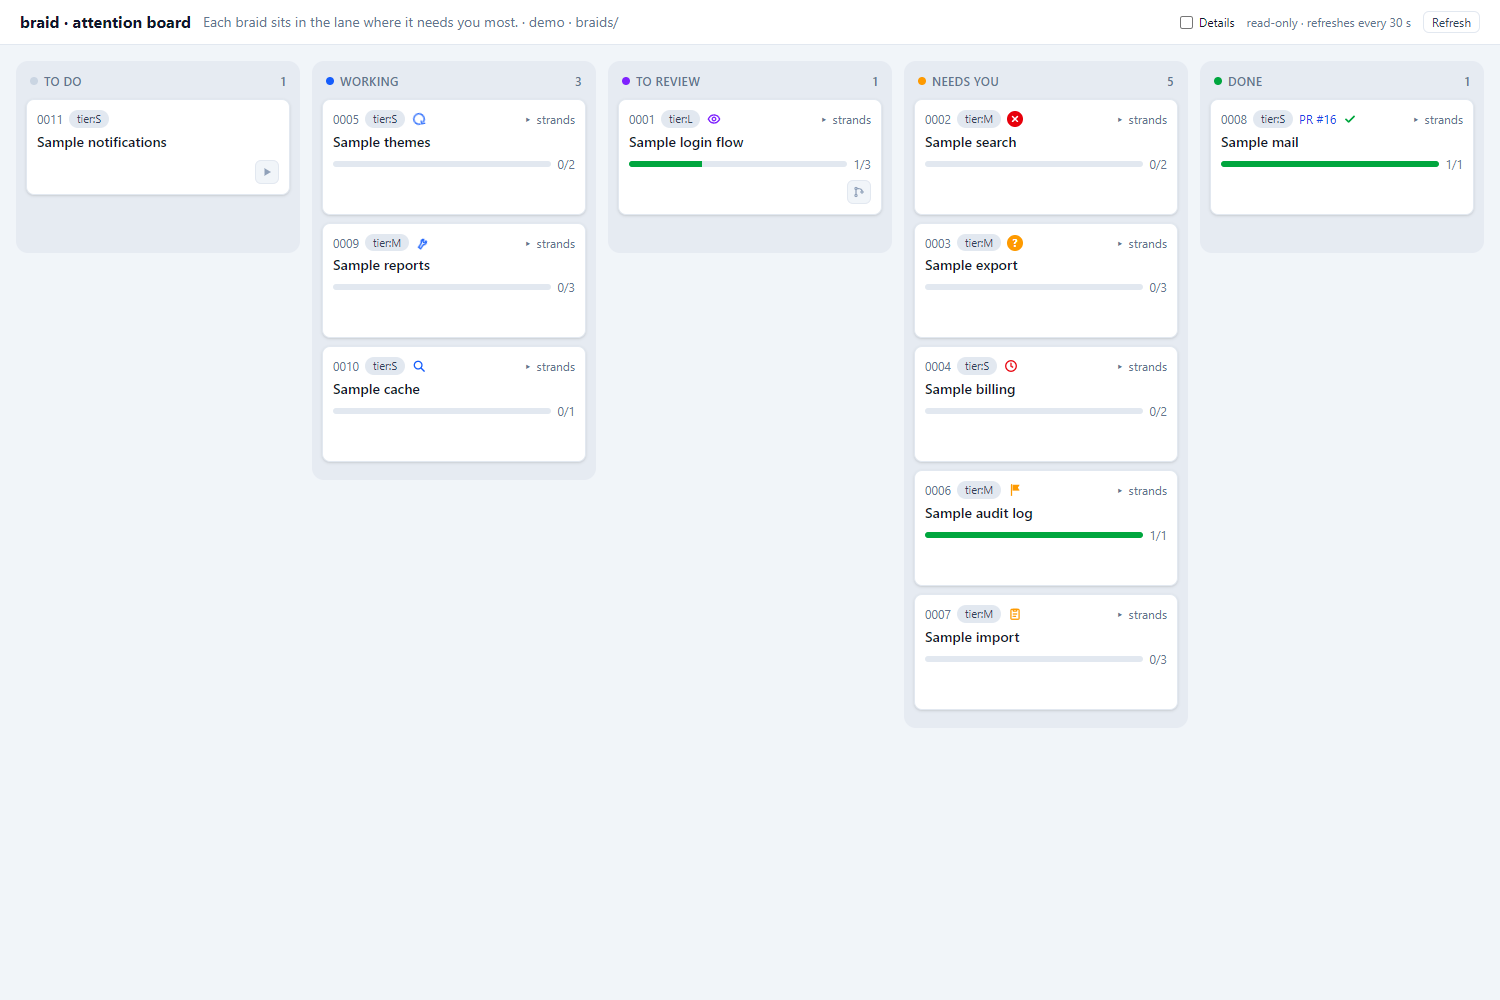
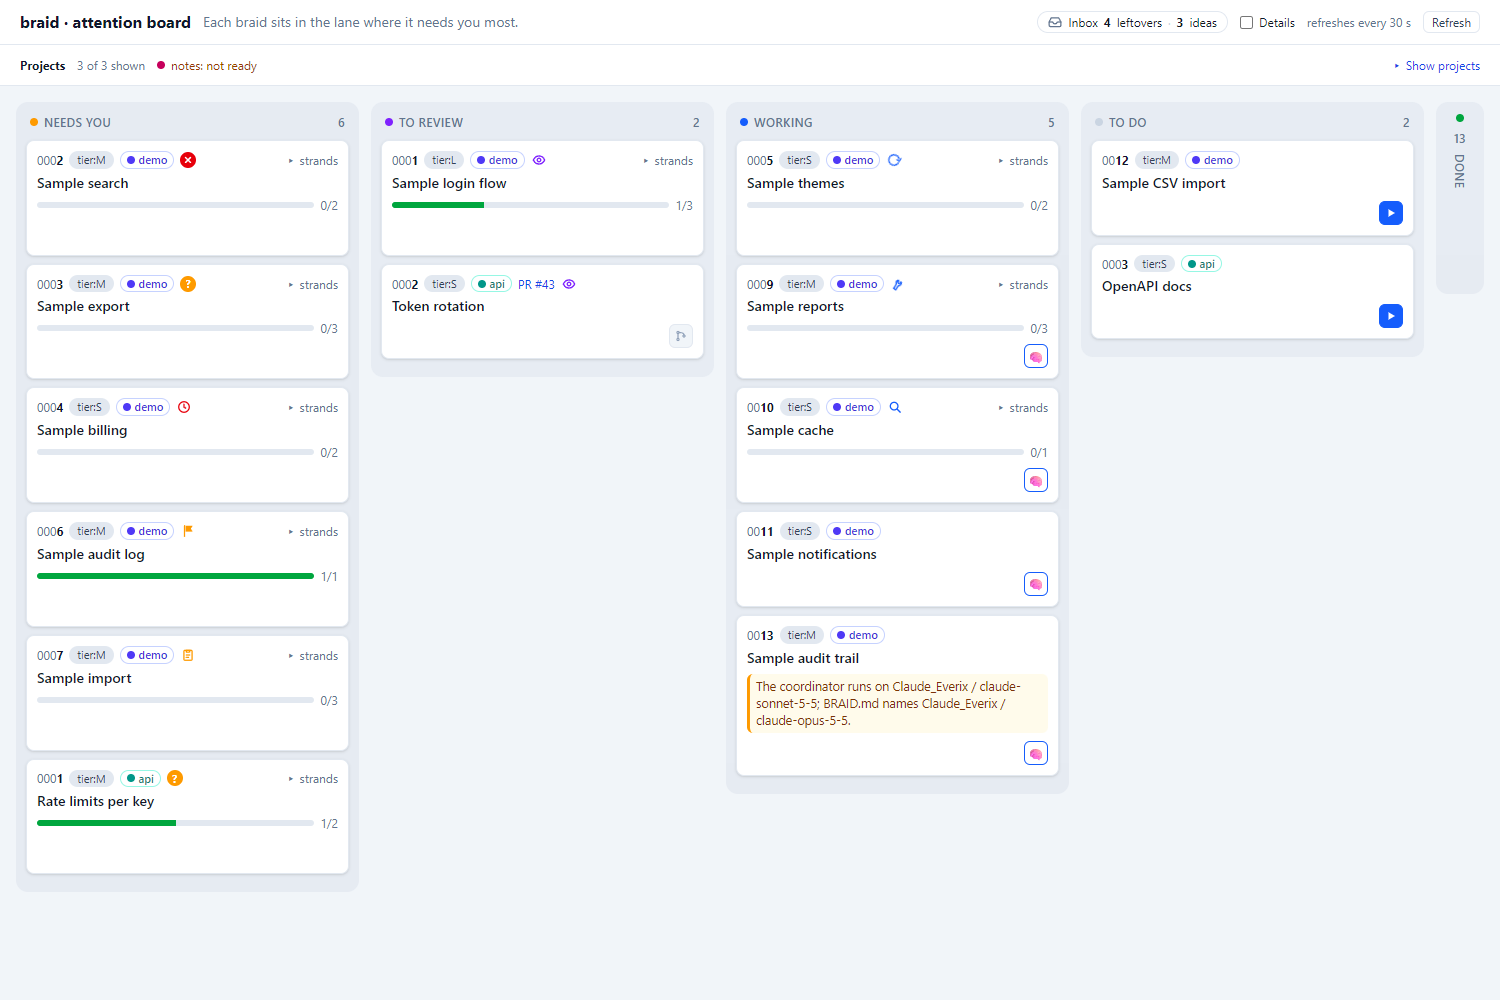
feat(board): collapsed Done lane is a narrow strip; Done rows wrap at narrow widths

diff --git a/web/src/App.tsx b/web/src/App.tsx
@@ -892,25 +892,29 @@ const dayOf = (iso: string | null): string => (iso === null ? "" : new Date(iso)
  * The Done lane: collapsed by default; opened, the 10 newest braids as rows, newest first by the day they became
  * Done, and Show more for the next 10.
  */
-function DoneLane({ cards }: { cards: readonly TaggedCard[] }) {
+function DoneLane({ cards, open, setOpen }: { cards: readonly TaggedCard[]; open: boolean; setOpen: (open: boolean) => void }) {
   const tagged = useContext(ScopeContext).tagged;
-  const [open, setOpen] = useState(false);
   const [shown, setShown] = useState(DONE_PAGE);
   const rows = doneNewestFirst(cards);
   return (
     <div>
-      <button type="button" aria-expanded={open} onClick={() => setOpen(!open)} className="flex min-h-6 w-full cursor-pointer items-center gap-1 rounded-md px-1 text-left text-xs font-semibold tracking-wide text-slate-500 uppercase max-md:min-h-11">
+      <button type="button" aria-expanded={open} onClick={() => setOpen(!open)} className="flex min-h-6 w-full cursor-pointer items-center gap-1 rounded-md px-1 text-left text-xs font-semibold tracking-wide text-slate-500 uppercase max-md:min-h-11 md:hidden">
         <span aria-hidden>{open ? "▾" : "▸"}</span> {open ? "Hide" : "Show"} done
       </button>
       {open && (
+        <button type="button" aria-expanded onClick={() => setOpen(false)} className="mb-1 flex min-h-6 w-full cursor-pointer items-center gap-1 rounded-md px-1 text-left text-xs font-semibold tracking-wide text-slate-500 uppercase max-md:hidden">
+          <span aria-hidden>▾</span> Hide done
+        </button>
+      )}
+      {open && (
         <div>
           {rows.slice(0, shown).map((b) => (
-            <button key={`${b.project}/${b.id}`} type="button" data-opens-details onClick={() => go(b.id, "brief", b.project)} className="flex w-full cursor-pointer items-center gap-2 border-b border-slate-300/60 px-1 py-1.5 text-left text-[13px] hover:underline max-md:min-h-11">
+            <button key={`${b.project}/${b.id}`} type="button" data-opens-details onClick={() => go(b.id, "brief", b.project)} className="flex w-full cursor-pointer flex-wrap items-center gap-x-2 gap-y-0.5 border-b border-slate-300/60 px-1 py-1.5 text-left text-[13px] hover:underline max-md:min-h-11">
               <LaneDot lane="Done" />
               <span className="w-10 flex-none text-xs text-slate-500"><Id id={b.id} /></span>
               {tagged && <ProjectTag name={b.project} />}
-              <span className="min-w-0 flex-1">{b.title}</span>
-              <span className="flex-none text-[11px] whitespace-nowrap text-slate-500">{dayOf(b.doneAt)}</span>
+              <span className="min-w-24 flex-1">{b.title}</span>
+              <span className="ml-auto flex-none text-[11px] whitespace-nowrap text-slate-500">{dayOf(b.doneAt)}</span>
             </button>
           ))}
           {rows.length > shown && (
@@ -930,6 +934,8 @@ function DoneLane({ cards }: { cards: readonly TaggedCard[] }) {
  */
 function Board({ data, details }: { data: { readonly lanes: readonly Lane[]; readonly braids: readonly TaggedCard[] }; details: boolean }) {
   const [active, setActive] = useState<Lane>(data.lanes[0] ?? "Waiting");
+  const [doneOpen, setDoneOpen] = useState(false);
+  const stripped = !doneOpen && data.lanes.includes("Done");
   const touch = useRef<{ x: number; y: number } | null>(null);
   const move = (by: number) => {
     const next = data.lanes[data.lanes.indexOf(active) + by];
@@ -955,7 +961,7 @@ function Board({ data, details }: { data: { readonly lanes: readonly Lane[]; rea
         ))}
       </div>
       <div
-        className="grid grid-cols-5 items-start gap-3 p-4 max-md:grid-cols-1 max-md:px-3.5"
+        className={`grid items-start gap-3 p-4 max-md:grid-cols-1 max-md:px-3.5 ${stripped ? "grid-cols-[repeat(4,minmax(0,1fr))_3rem]" : "grid-cols-5"}`}
         onTouchStart={(e) => {
           const t = e.touches[0];
           // A touch that starts at a screen edge is the browser's back or forward gesture, not a swipe.
@@ -972,13 +978,25 @@ function Board({ data, details }: { data: { readonly lanes: readonly Lane[]; rea
       >
         {data.lanes.map((lane) => {
           const cards = data.braids.filter((b) => b.lane === lane);
+          if (lane === "Done" && stripped) {
+            return (
+              <section key={lane} aria-label={LANE_LABEL[lane]} className={lane === active ? "" : "max-md:hidden"}>
+                <button type="button" aria-expanded={false} onClick={() => setDoneOpen(true)} className="flex min-h-48 w-full cursor-pointer flex-col items-center gap-2 rounded-xl bg-slate-200/70 py-3 text-xs font-semibold uppercase tracking-wide text-slate-500 hover:bg-slate-300/70 max-md:hidden">
+                  <LaneDot lane={lane} />
+                  <span>{cards.length}</span>
+                  <span className="[writing-mode:vertical-rl]">{LANE_LABEL[lane]}</span>
+                </button>
+                <div className="md:hidden"><DoneLane cards={cards} open={false} setOpen={setDoneOpen} /></div>
+              </section>
+            );
+          }
           return (
             <section key={lane} aria-label={LANE_LABEL[lane]} className={`min-h-48 rounded-xl bg-slate-200/70 p-2.5 ${lane === active ? "" : "max-md:hidden"}`}>
               <h3 className="mx-1 mb-2.5 mt-0.5 flex justify-between text-xs font-semibold uppercase tracking-wide text-slate-500 max-md:hidden">
                 <span className="flex items-center gap-1.5"><LaneDot lane={lane} />{LANE_LABEL[lane]}</span>
                 <span>{cards.length}</span>
               </h3>
-              {lane === "Done" ? <DoneLane cards={cards} /> : cards.map((b) => <Card key={`${b.project}/${b.id}`} braid={b} details={details} />)}
+              {lane === "Done" ? <DoneLane cards={cards} open={doneOpen} setOpen={setDoneOpen} /> : cards.map((b) => <Card key={`${b.project}/${b.id}`} braid={b} details={details} />)}
             </section>
           );
         })}

diff --git a/docs/decisions.md b/docs/decisions.md
@@ -72,6 +72,7 @@ Updated: 2026-11-20. User requirements take precedence over implementation propo
 | D77 | The worker alone waits on an item PR's CI, and the coordinator waits only where a wake can't be lost: the worker's report for item PRs (the coordinator sets no PR watch on them), a PR watch only while no worker waits on the PR (the planning PR, the final PR, and a story's PR from the coordinator's `braid accept` commit on it, kept until the new head is green and the handover), a foreground `braid wait <number> --timeout <under 10>` for the braid branch's CI after a merge (called again on exit 3), and a `delegate_task` result for reviewers. The coordinator runs no background command and says "waiting" only with one of those running; after a wake or resume it checks the state first, runs nothing in parallel with `t3_thread_wait`, reads a "STOP" result during a wait as an incoming message, and re-checks after "session ended". This replaces D71's background wait. | A background `braid wait` plus `t3_background_wait` raced T3's query close and killed the coordinator session, and 0044's wait was interrupted the same way; a coordinator watch on an item PR duplicated the worker's own and woke the coordinator for failures that were the worker's. (0048, idea 2026-11-20-80k2.) |
 | D78 | One `braid board` serves every project in the per-machine list `~/.braid/projects.json` (or the one `--project` names): one port, one token, one Tailscale listener. Each project keeps its own snapshot cycle, watcher, notifier and `.braid/notified.json`; its whole read has a 60 s timeout, and a failed or late read keeps the last good snapshot, marked with its age and failure, and sends no pushes. `/api/all` is one combined board of all projects (or of `?projects=a,b`), each card tagged with its project, the lanes derived per project as before; `/api/board?project=` answers for one. Actions name a served project; a folder path from the client is never accepted. The security checks (owner-only whois, token, Host, Origin, `x-braid-request`) are unchanged, and the local listener now checks Host on every request, reads included: only `127.0.0.1:<port>` or `localhost:<port>` (a DNS-rebinding page reads nothing). The user accepted that one token and one Tailscale address reach every listed project (2026-11-20). With no list, the board serves the folder it runs in, as before. Supersedes D40's "one project for now". Numbered D78 because `main` already has D76 and D77. Details in [the board](board.md#several-projects). | The user works on several projects at once and had a board per repository, each on its own port, token, tab and Tailscale address, and pushes only from a board that happened to run (spike 0045, option 3, chosen by the user on 2026-11-20). One process for all keeps one bookmark and one place for pushes; per-project state stays in each repository, so coordinators and workers are unchanged. The per-project timeout and the last good snapshot keep one slow or broken project from holding up the rest. |
 | D79 | The board page is one combined board with a project filter, not a page per project. The filter is `?projects=a,b` in the address; the Projects block is one summary line by default (it always names a failed read and a project that isn't ready) and opens to one line per project with its counts, readiness and board age; cards, Done rows and inbox entries carry a project tag when two or more projects are shown; an item is at `#/p/<project>/<id>`, and the old `#/<id>` means the first project shown. With one project served the page is as before. A failed read shows as a dashed card edge and ⚠, the project line and a note in the panel. Details in [the board](board.md#several-projects). | The user chose option 3 of spike 0045 and approved the mockups on 2026-11-20 with one change: the selector is collapsed by default, so the lanes stay the first thing on the page. The summary keeps trouble visible. A bookmark or phone link has to open the same view, so the filter lives in the address; the open or closed state of the block is a preference, kept in the browser. |
+| D80 | On the desktop board a collapsed Done lane is a narrow strip (dot, count, "Done") at the right edge and the other four lanes take the freed width; opened it is a full fifth as before. The open state lives in `Board`, not remembered across loads. The phone keeps its tabs. Open Done rows wrap the title and drop the day under it when the column is narrow. | The collapsed lane kept a fifth of the width to show a count and "Show done", while Done is rarely opened and the other lanes need the room. At 900 px the open lane's day overlapped the title. (0055.) |
 
 D12, D13, D14, D17 and D19–D25 (Agile vocabulary, report formats, review naming, assignment packets, delivery and record-ownership rules) and D27 (workspace-binding helper) were process decisions superseded by D28 and D29. Their IDs are not reused.
 

diff --git a/docs/board.md b/docs/board.md
@@ -16,7 +16,7 @@ The lanes say what a braid asks of you, not the braid's own status. An item is o
 | To Do | `To Do` | not started; `Outline` items show here with a badge | none | light grey |
 | Done | `Done` | merged | none | green |
 
-The lanes stand in this order left to right (`LANES` in `src/board/model.ts`, the same order as the urgency above), on the phone as well. **Done is collapsed**: the lane shows only its count and "Show done". Opened, it lists braids as rows (number, title, the day it became Done), **newest first**, the 10 newest, and "Show more (n)" adds 10 more. "Became Done" is the date of the newest commit that set `status: Done` in the item's brief, read from Git (the brief's history, `git log --follow`, from the commit the brief was read from, else HEAD: the oldest commit of the unbroken run of versions that say `status: Done`; `src/board/done.ts`), so a renamed folder keeps its date, so it needs no GitHub and covers items Done without a PR; it is the commit's committer date, and a result, a miss included, is kept per commit searched for the life of the board process, so an item without a date doesn't run `git log` on every refresh. A braid with strands takes its own Done commit; when its own brief never says Done (its strands did the work), its newest strand's. A Done braid whose date Git doesn't give sorts after the dated ones, highest number first. `doneNewestFirst` and `DONE_PAGE` in `src/board/model.ts` do the ordering and the page size.
+The lanes stand in this order left to right (`LANES` in `src/board/model.ts`, the same order as the urgency above), on the phone as well. **Done is collapsed**: from `md` up the lane is a narrow strip at the right edge (its dot, the count and "Done" set vertically) and the other four lanes share the freed width; the whole strip is the button that opens it (`aria-expanded`), and the open state is not remembered across page loads. On the phone the Done tab shows the "Show done" button as before. Opened, the lane is a full column (five equal columns) with "Hide done" at the top, which collapses it to the strip again; it lists braids as rows (number, title, the day it became Done), **newest first**, the 10 newest, and "Show more (n)" adds 10 more. In a narrow column a row's title wraps and its day drops under it, so the two never overlap. "Became Done" is the date of the newest commit that set `status: Done` in the item's brief, read from Git (the brief's history, `git log --follow`, from the commit the brief was read from, else HEAD: the oldest commit of the unbroken run of versions that say `status: Done`; `src/board/done.ts`), so a renamed folder keeps its date, so it needs no GitHub and covers items Done without a PR; it is the commit's committer date, and a result, a miss included, is kept per commit searched for the life of the board process, so an item without a date doesn't run `git log` on every refresh. A braid with strands takes its own Done commit; when its own brief never says Done (its strands did the work), its newest strand's. A Done braid whose date Git doesn't give sorts after the dated ones, highest number first. `doneNewestFirst` and `DONE_PAGE` in `src/board/model.ts` do the ordering and the page size.
 
 The labels live in one place, `LANE_LABEL` in `src/board/marks.ts`. Stored statuses in `brief.md` keep their names (`Outline`, `To Do`, `In Progress`, `Done`). The design is in `braids/0015-needs-you-when-the-coordinator-waits/states.md`.
 

diff --git a/braids/0055-done-lane-collapses-to-a-narrow-strip/brief.md b/braids/0055-done-lane-collapses-to-a-narrow-strip/brief.md
@@ -40,11 +40,12 @@ Expected size: about 40 to 80 lines in 2 to 3 files, plus mockups and retaken sc
 
 ## Completion
 
-- [ ] Mockups of the strip (collapsed and opened, two desktop widths) reported, and the build waited for the user's review of them
-- [ ] From `md` up, the collapsed Done lane is a narrow strip with its dot, name and count, and the other four lanes take the freed width
-- [ ] Clicking the strip opens Done as a full column with today's rows and Show more; Hide done collapses it to the strip again
-- [ ] The phone layout and Done tab behave as before
-- [ ] `docs/board.md` and the desktop screenshots showing the Done lane are updated
+- [x] Mockups of the strip (collapsed and opened, two desktop widths) reported, and the build waited for the user's review of them
+- [x] From `md` up, the collapsed Done lane is a narrow strip with its dot, name and count, and the other four lanes take the freed width
+- [x] Clicking the strip opens Done as a full column with today's rows and Show more; Hide done collapses it to the strip again
+- [x] The phone layout and Done tab behave as before
+- [x] Open Done rows at narrow widths: the title wraps and the day goes under it, no overlap (added by the user with the mockup approval)
+- [x] `docs/board.md` and the desktop screenshots showing the Done lane are updated
 - [ ] The gate command from BRAID.md passes
 - [ ] report.md written: what changed, why, validation, anything open
 

diff --git a/braids/0055-done-lane-collapses-to-a-narrow-strip/report.md b/braids/0055-done-lane-collapses-to-a-narrow-strip/report.md
@@ -1,0 +1,18 @@
+# 0055 report
+
+## What changed
+
+- `web/src/App.tsx`: the Done open state moved from `DoneLane` to `Board`. From `md` up, collapsed Done is a 3rem strip (dot, count, vertical "Done"), one `aria-expanded` button; the grid is four equal columns plus the strip. Opened, five columns with "Hide done" at the top. The phone keeps its tabs and "Show done" button.
+- Open Done rows wrap: the title wraps and the day drops under it when the column is narrow (the overlap seen at 900 px), added by the user with the mockup approval.
+- `docs/board.md` Done paragraph, decision D80, and desktop screenshots 31, 33, 61, 62 retaken on `braid board --demo` data.
+
+## Why
+
+The collapsed Done lane kept a fifth of the width for a count and a button; the user rarely opens it and wants the room for the other lanes.
+
+## Validation
+
+`npm run verify` (see PR). Checked by hand in headless Chrome at 1440 and 900 px, collapsed and opened, on `--demo` data.
+
+For later items: none.
+Needs the user: none.

diff --git a/braids/0055-done-lane-collapses-to-a-narrow-strip/log-2026-11-21-b81fcbdb.md b/braids/0055-done-lane-collapses-to-a-narrow-strip/log-2026-11-21-b81fcbdb.md
@@ -1,0 +1,3 @@
+## 2026-11-21 12:45Z
+
+Decided: User approved the Done strip mockups and asked to also fix the open Done rows' title/day overlap at narrow widths.
